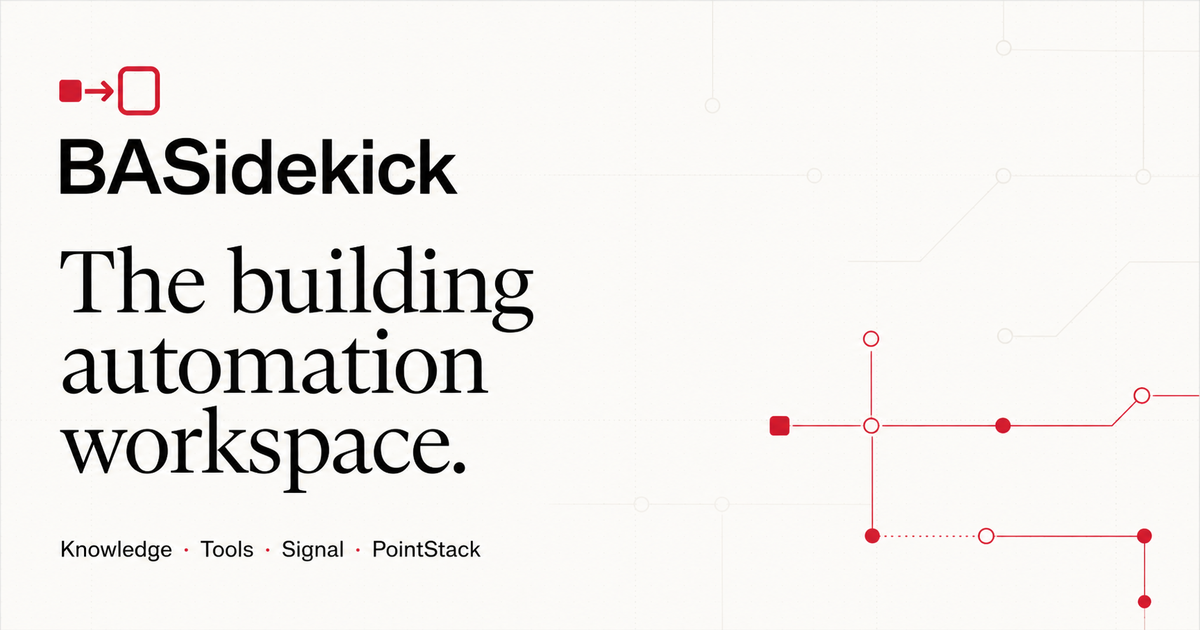
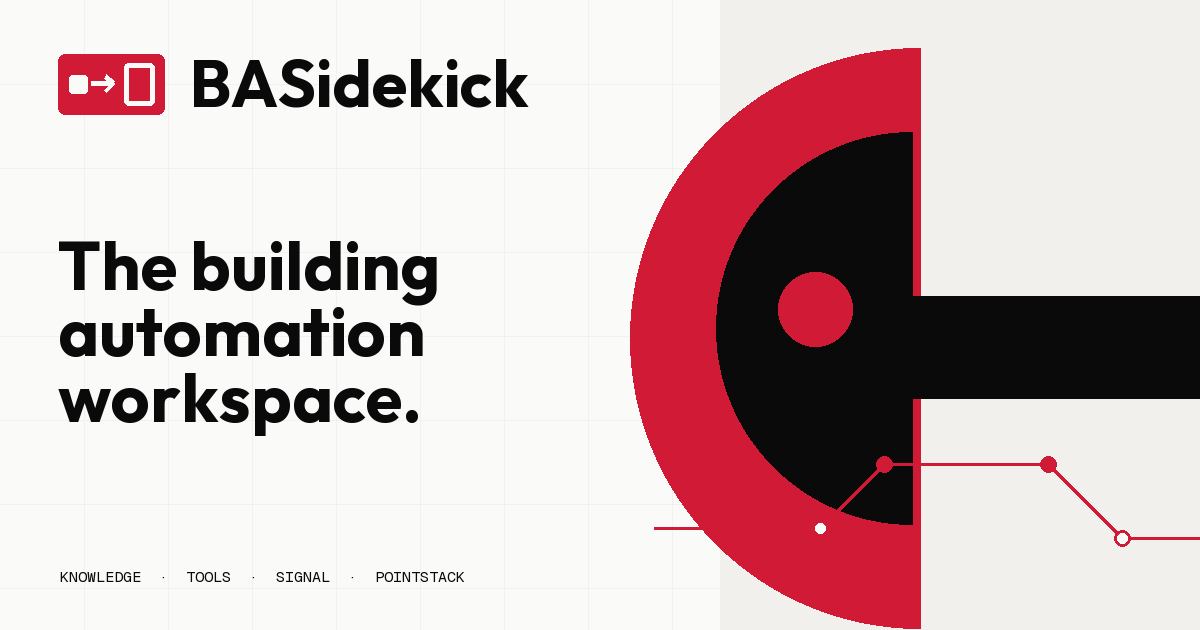
Add Signal Geometry brand assets
Extend BASidekick social imagery and add a restrained BASidekick x QA Graphics co-brand set.

diff --git a/context/CURRENT_STATE.md b/context/CURRENT_STATE.md
@@ -1,6 +1,6 @@
 # Current State
 
-As of 2026-07-26, the zero-based Next.js implementation is consolidated into the original `rbhans/basidekick-site` repository on `main` and live through the established GitHub-to-Vercel deployment path. The shell, technical-editorial landing page, field-instrument dashboard treatment, themes, keyboard-navigable global search, mobile navigation, primary content routes, live Supabase reads, account/profile/recovery flows, PointStack messaging, account-backed saves and recent views, moderation, Library submission, compatibility routes, Atlas rebuild status, and dynamic SEO surfaces are implemented. Courses presents one `Intro to BAS` course with ten connected lessons, the original lesson copy, BAS diagrams, and interactive assessments. Command search, mobile navigation, and reusable sign-in prompts use accessible Radix primitives while retaining the custom BASidekick appearance. Selected motion refinements add direct button feedback, preserve immediate command search, improve course marker entrances, and restrict geometric hover movement to precise pointers. The landing-page feature bento uses three related modernist control-collage artworks for Wiki, PointStack, and Tools in a compact responsive layout.
+As of 2026-07-28, the zero-based Next.js implementation is consolidated into the original `rbhans/basidekick-site` repository on `main` and live through the established GitHub-to-Vercel deployment path. The shell, technical-editorial landing page, field-instrument dashboard treatment, themes, keyboard-navigable global search, mobile navigation, primary content routes, live Supabase reads, account/profile/recovery flows, PointStack messaging, account-backed saves and recent views, moderation, Library submission, compatibility routes, Atlas rebuild status, and dynamic SEO surfaces are implemented. Courses presents one `Intro to BAS` course with ten connected lessons, the original lesson copy, BAS diagrams, and interactive assessments. Command search, mobile navigation, and reusable sign-in prompts use accessible Radix primitives while retaining the custom BASidekick appearance. Selected motion refinements add direct button feedback, preserve immediate command search, improve course marker entrances, and restrict geometric hover movement to precise pointers. The landing-page feature bento uses three related modernist control-collage artworks for Wiki, PointStack, and Tools in a compact responsive layout. A restrained Signal Geometry asset set extends the approved Optical Balance mark across BASidekick social imagery and separate BASidekick x QA Graphics co-brand compositions without altering either core mark.
 
 The retired presentation is preserved on the `archive/pre-rebuild-2026-07-25` branch, the `pre-rebuild-2026-07-25` tag, and a verified local Git bundle. The exact pre-cutover Vercel production commit is tagged `production-before-rebuild-2026-07-25`. Historical Supabase migrations remain in the repository alongside the replacement migrations.
 

diff --git a/research/brand-geometric-philosophy.md b/research/brand-geometric-philosophy.md
@@ -1,0 +1,11 @@
+# Signal Geometry
+
+Signal Geometry treats space as an active system rather than a backdrop. Broad quiet fields establish confidence, while a small number of exact lines, nodes, frames, and interruptions reveal invisible relationships. Forms are simple enough to read instantly but composed with meticulous alignment, optical correction, and the kind of restraint that only comes from deep expertise.
+
+Color behaves like a controlled signal. A dominant neutral field carries the composition; one or two brand colors identify origin, direction, and exchange. Saturated color is never sprayed decoratively. It enters at precise junctions, creating a rhythm that feels calibrated through countless refinements and painstaking chromatic judgment.
+
+Scale alternates between architectural and instrumental. Large geometric masses create memorable silhouettes, while hairline routes and reference points reward closer viewing. The result should feel both immediate and studied: master-level execution in which every offset, radius, stroke, and interval appears deliberately tested rather than automatically generated.
+
+Composition favors tension held inside a strict grid. Shapes may approach, overlap, or align across divisions, but negative space always protects legibility. Repetition establishes a system; one carefully chosen deviation gives it life. Craftsmanship is visible in the balance between those forces, with no element allowed to drift, crowd, or become ornamental noise.
+
+Typography remains sparse and structural. A name, a short descriptor, or a small coordinate label may anchor the field, but meaning lives primarily in form, color, and spatial relationship. Every artifact should look meticulously crafted by someone at the top of the field: quiet at first glance, exact under scrutiny, and coherent enough to become a recognizable visual language.

diff --git a/public/brand/geometric/README.md b/public/brand/geometric/README.md
@@ -1,0 +1,32 @@
+# Modern Geometric Brand Assets
+
+This set extends the approved BASidekick Optical Balance mark with the Signal Geometry visual language. The core mark geometry is unchanged. New personality comes from structured negative space, restrained signal routes, modular fields, and large geometric forms created specifically for this set rather than reused from the landing-page artwork.
+
+`brand-system-board.png` presents the BASidekick and co-brand directions together for quick review.
+
+## BASidekick
+
+- `basidekick-banner-light.png` - 1500x500 light social or presentation header
+- `basidekick-banner-dark.png` - 1500x500 dark social or presentation header
+- `basidekick-square.png` - 1080x1080 square social asset
+
+The site-wide Open Graph image at `/og.png` and the existing 1500x500 social header were updated from this same system.
+
+## BASidekick x QA Graphics
+
+- `basidekick-qa-banner-light.png` - 1500x500 light co-brand header
+- `basidekick-qa-banner-dark.png` - 1500x500 dark co-brand header
+- `basidekick-qa-square.png` - 1080x1080 square co-brand asset
+- `basidekick-qa-lockup.png` - 1600x400 wide co-brand lockup
+
+The BASidekick and QA Graphics marks remain separate and proportionally intact. Shared geometry lives around the marks, not inside them. Keep the spacing already present in these compositions when cropping or placing them in another layout.
+
+## Color
+
+- BASidekick crimson: `#d11a36`
+- QA Graphics blue used by the supplied logo artwork: `#033c71`
+- QA Graphics guide blue: `#0e406a`
+- BASidekick sand: `#fafaf8`
+- BASidekick ink: `#0a0a0a`
+
+QA Graphics logo source: `/Users/benhansen/Documents/QAG/Videos/qag-remotion-video-kit/assets`. The supplied QA logo files were used without changing their internal geometry or color relationships.
